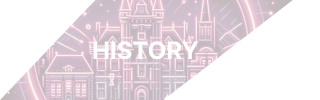
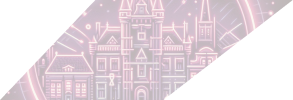
header-nick

Changed region(s): [[0.0614, 0.0, 1.0, 1.0], [0.0307, 0.81, 0.0614, 0.9]]

diff --git a/src/views/Home/HomeView.vue b/src/views/Home/HomeView.vue
@@ -1,47 +1,56 @@
 <script setup>
-import Background from '@/components/background/BackgroundComponent.vue';
-import HomeCard from '@/components/homeCard/HomeCard.vue';
-import homeBanner from '@/components/icons/homeBanner.vue';
-import backgroundImage from '@/assets/images/homebanner.png';
-import jazzCard from '@/assets/images/jazzCard.png';
-import historyCard from '@/assets/images/historyCard.png';
-import foodCard from '@/assets/images/foodCard.png';
-import AgendaComponent from '@/components/agenda/AgendaComponent.vue';
-import { Event } from '@/models/event';
-
+import Background from '@/components/background/BackgroundComponent.vue'
+import HomeCard from '@/components/homeCard/HomeCard.vue'
+import homeBanner from '@/components/icons/homeBanner.vue'
+import backgroundImage from '@/assets/images/homebanner.png'
+import jazzCard from '@/assets/images/jazzCard.png'
+import historyCard from '@/assets/images/historyCard.png'
+import foodCard from '@/assets/images/foodCard.png'
+import danceCard from '@/assets/images/danceCard.png'
+import AgendaComponent from '@/components/agenda/AgendaComponent.vue'
+import { Event } from '@/models/event'
 
 const events = [
-    new Event(0, 'Jazz', 'Grote Markt', '2024-07-26', '2024-07-26', 25, 100, 'jazz'),
-    new Event(1, 'History', 'Grote Markt', '2024-07-27', '2024-07-27', 25, 100, 'history'),
-    new Event(2, 'Food', 'Grote Markt', '2024-07-28', '2024-07-28', 25, 0, 'music')
+  new Event(0, 'Jazz', 'Grote Markt', '2024-07-26', '2024-07-26', 25, 100, 'jazz'),
+  new Event(1, 'History', 'Grote Markt', '2024-07-27', '2024-07-27', 25, 100, 'history'),
+  new Event(2, 'Food', 'Grote Markt', '2024-07-28', '2024-07-28', 25, 0, 'music')
 ]
 </script>
 
 <template>
-    <Background :image="backgroundImage"/>
-    <section id="banner">
-        <homeBanner />
-        <p>Haarlem is buzzing with excitement for its upcoming Festival! Get ready for jazz sensations like Gare du Nord, Nordians, and Soul Six. Explore history through iconic landmarks: De Grote Kerk, De Hallen, De Grote Markt, Proveniershof, and more. Don't miss top restaurants like Tatsu Haarlem, Mano Restaurant, and the Zeeuw. Join the city's celebration—a fusion of jazz beats, historical tales, and culinary delights. Haarlem awaits your presence!</p>
-    </section>
+  <Background :image="backgroundImage" />
+  <section id="banner">
+    <homeBanner />
+    <p>
+      Haarlem is buzzing with excitement for its upcoming Festival! Get ready for jazz sensations
+      like Gare du Nord, Nordians, and Soul Six. Explore history through iconic landmarks: De Grote
+      Kerk, De Hallen, De Grote Markt, Proveniershof, and more. Don't miss top restaurants like
+      Tatsu Haarlem, Mano Restaurant, and the Zeeuw. Join the city's celebration—a fusion of jazz
+      beats, historical tales, and culinary delights. Haarlem awaits your presence!
+    </p>
+  </section>
 
-    <HomeCard
-        :image="jazzCard"
-        description="Discover the pulse of Haarlem Festival Jazz: an electric mix of Gumbo Kings' beats and Ntjam Rosie's entrancing neo-soul. Move to Wicked Jazz Sounds, bask in Jonna Frazer's vocals, and explore a vibrant spectrum of melodies. Join us in Haarlem for an unforgettable celebration of diverse jazz, where each note weaves into a symphony of musical brilliance, promising an experience that resonates long after the final chord."
-    />
-    <HomeCard
-        :image="historyCard"
-        description="Embark on a captivating journey through Haarlem's history with 'Haarlem Heritage Stroll: Unveiling the Past.' This 2.5-hour guided tour, available in English, Dutch, and Chinese, takes you from the iconic Church of St. Bavo to the lively Grote Markt. Join us from July 28th to July 31st for a truly immersive exploration of Haarlem's rich tapestry, where old-world charm meets modern delights."
-        textBlack
-        textRight
-    />
-    <HomeCard
-        :image="foodCard"
-        description="Delve into Haarlem's Yummie Event, an exquisite culinary celebration that tantalizes your taste buds! Experience an extensive array of flavorful adventures, ranging from exclusive restaurant menus crafted by top chefs to delightful home-cooked recipes. Immerse yourself in the vibrant and diverse food scene, capturing the true essence and spirit of our festival's culinary journey."
-    />
+  <HomeCard
+    :image="jazzCard"
+    description="Discover the pulse of Haarlem Festival Jazz: an electric mix of Gumbo Kings' beats and Ntjam Rosie's entrancing neo-soul. Move to Wicked Jazz Sounds, bask in Jonna Frazer's vocals, and explore a vibrant spectrum of melodies. Join us in Haarlem for an unforgettable celebration of diverse jazz, where each note weaves into a symphony of musical brilliance, promising an experience that resonates long after the final chord."
+  />
+  <HomeCard
+    :image="historyCard"
+    description="Embark on a captivating journey through Haarlem's history with 'Haarlem Heritage Stroll: Unveiling the Past.' This 2.5-hour guided tour, available in English, Dutch, and Chinese, takes you from the iconic Church of St. Bavo to the lively Grote Markt. Join us from July 28th to July 31st for a truly immersive exploration of Haarlem's rich tapestry, where old-world charm meets modern delights."
+    textBlack
+    textRight
+  />
+  <HomeCard
+    :image="foodCard"
+    description="Delve into Haarlem's Yummie Event, an exquisite culinary celebration that tantalizes your taste buds! Experience an extensive array of flavorful adventures, ranging from exclusive restaurant menus crafted by top chefs to delightful home-cooked recipes. Immerse yourself in the vibrant and diverse food scene, capturing the true essence and spirit of our festival's culinary journey."
+  />
+  <HomeCard
+    :image="danceCard"
+    description="Experience the rhythm of Haarlem Festival Dance: an electrifying fusion of contemporary moves and traditional flair. Immerse yourself in captivating performances by renowned dance troupes, showcasing a dynamic blend of styles from hip-hop to ballet. Let the music guide your steps as you join us for an unforgettable celebration of movement and expression. Haarlem is calling, and the dance floor awaits your presence!"
+    textRight
+  />
 
-    <AgendaComponent
-        :agendaItems="events"
-    />    
+  <AgendaComponent :agendaItems="events" />
 </template>
 
 <style scoped>

diff --git a/src/components/header/HeaderComponent.vue b/src/components/header/HeaderComponent.vue
@@ -11,33 +11,33 @@ const showUserDropdown = ref(false);
         <nav>
             <div class="user-container">
               <RouterLink to="/user" class="header-link user" @click.prevent="showUserDropdown = !showUserDropdown">
-                <div class="header-image"></div>
+                <div class="header-image user"></div>
               </RouterLink>
               <div v-if="showUserDropdown" class="user-dropdown">
                 <RouterLink to="/login">Login</RouterLink>
                 <RouterLink to="/register">Register</RouterLink>
               </div>
             </div>
-            <RouterLink to="/dance" class="header-link dance">
-              <div class="header-image"></div>
+            <RouterLink to="/dance" class="header-link">
+              <div class="header-image dance">Dance</div>
             </RouterLink>
-            <RouterLink to="/jazz" class="header-link jazz">
-              <div class="header-image"></div>
+            <RouterLink to="/jazz" class="header-link">
+              <div class="header-image jazz">Jazz</div>
             </RouterLink>
-            <RouterLink to="/yummy" class="header-link yummy">
-              <div class="header-image"></div>
+            <RouterLink to="/yummy" class="header-link">
+              <div class="header-image yummy">Yummy</div>
             </RouterLink>
-            <RouterLink to="/" class="header-link home">
-              <div class="header-image"></div>
+            <RouterLink to="/" class="header-link">
+              <div class="header-image home">Home</div>
             </RouterLink>
-            <RouterLink to="/history" class="header-link history">
-              <div class="header-image"></div>
+            <RouterLink to="/history" class="header-link">
+              <div class="header-image history">History</div>
             </RouterLink>
             <RouterLink to="/shop" class="header-link shop">
-              <div class="header-image"></div>
+              <div class="header-image shop"></div>
             </RouterLink>
-            <RouterLink to="/language" class="header-link language">
-              <div class="header-image"></div>
+            <RouterLink to="/language" class="header-link">
+              <div class="header-image language"></div>
             </RouterLink>
         </nav>
       </header>

diff --git a/src/components/header/header.scss b/src/components/header/header.scss
@@ -5,58 +5,67 @@
   top: 0;
   left: 0;
   width: 100%;
+  height: auto;
   z-index: 1000;
   background-color: $primary-color; 
-  height: auto;
   display: flex;
-  justify-content: space-between;
-  flex-direction: column;
+  justify-content: space-around;
+  flex-wrap: wrap;
 }
+
+nav {
+  display: flex;
+  width: 100%;
+  height: 100%;
+  justify-content: space-around; 
+}
+
+.header-link {
+  display: flex;
+  align-items: center;   
+  justify-content: center;
+  background-size: contain;
+  background-position: center;
+  background-repeat: no-repeat;
+  width: 100%;
+  height: 100%;
+}
+
 .shop {
   background-image: url('../../assets/images/header/Shopheader.png');
-  background-size: cover;
-  background-position: center;
 }
-.dance{
+.dance {
    background-image: url('../../assets/images/header/Danceheader.png');
-   background-size: cover;
-   background-position: center;
 }
-.jazz{
+.jazz {
    background-image: url('../../assets/images/header/Jazzheader.png');
-   background-size: cover;
-   background-position: center;
 }
-.yummy{
+.yummy {
    background-image: url('../../assets/images/header/Yummyheader.png');
-   background-size: cover;
-   background-position: center;
 }
-.home{
+.home {
    background-image: url('../../assets/images/header/Homeheader.png');
-   background-size: cover;
-   background-position: center;
 }
-.history{
+.history {
    background-image: url('../../assets/images/header/Historyheader.png');
-   background-size: cover;
-   background-position: center;
 }
+.user {
+   background-image: url('../../assets/images/header/Userheader.png');
+}
+.language {
+   background-image: url('../../assets/images/header/Languageheader.png');
+}
+
 .header-image {
-  max-width: 100%;
-  max-height: 100%;
-  height: auto;
-  width: auto;
-}
-
-.small {
-  width: 2.5vw;   
-  height: auto;
-}
-
-.user-container {
-  position: relative;
-  display: inline-block;
+  height: 100px;
+  width: 280px;
+  display: flex;
+  justify-content: center;
+  align-items: center;
+  color: white;
+  background-size: contain; 
+  background-position: center; 
+  background-repeat: no-repeat; 
 }
 
 .user-dropdown {

diff --git a/src/App.vue b/src/App.vue
@@ -1,5 +1,6 @@
 <script>
 import { RouterLink, RouterView } from 'vue-router';
+
 import CardComponent from './components/card/CardComponent.vue';
 import HeaderComponent from './components/header/HeaderComponent.vue';
 export default {
@@ -10,15 +11,15 @@ export default {
 }
 </script>
 <template>
-   <div id="app">
+   <header id="app">
       <HeaderComponent />
       <CardComponent />
-   </div>
+   </header>
    <main>
       <RouterView />
   </main>
 </template>
 
 <style scoped>
-@import './assets/app.scss'
+@import './assets/app.scss';
 </style>

diff --git a/src/components/card/CardComponent.vue b/src/components/card/CardComponent.vue
@@ -8,7 +8,7 @@
 </template>
 
 <script>
-import { validate } from '../../helpers/eventValidator';
+//import { validate } from '../../helpers/eventValidator';
 
 export default {
     props: {

diff --git a/src/assets/app.scss b/src/assets/app.scss
@@ -3,7 +3,7 @@
 nav{
     width: 100%;
     display: flex;
-    flex-direction: row;
+    flex-direction: column;
     justify-content: center;
 
     a{
